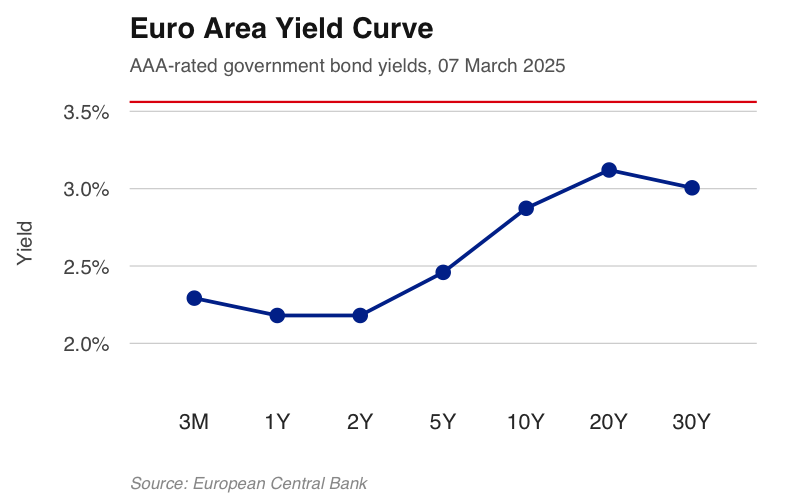
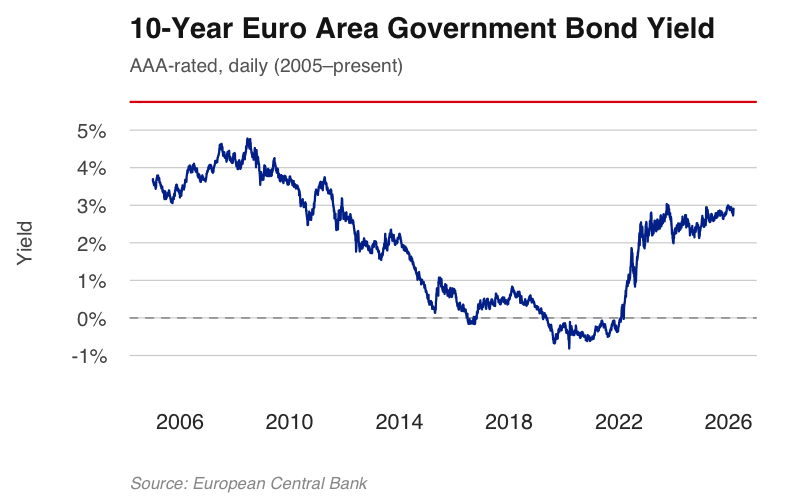
Change yield curve example to 10Y over 20 years

diff --git a/README.md b/README.md
@@ -161,14 +161,14 @@ head(mortgages)
 
 ---
 
-### 5. Plot the euro area yield curve
+### 5. 10-year government bond yield
 
 ```r
-tenors <- c("3M", "1Y", "2Y", "5Y", "10Y", "20Y", "30Y")
-yields <- ecb_yield_curve(tenors, from = "2025-03-01", to = "2025-03-07")
+yields <- ecb_yield_curve("10Y", from = "2005-01")
+plot(yields$date, yields$value, type = "l", xlab = "Date", ylab = "Yield (%)")
 ```
 
-![Euro Area Yield Curve](man/figures/yield_curve.png)
+![10-Year Euro Area Government Bond Yield](man/figures/yield_curve.png)
 
 ---
 
